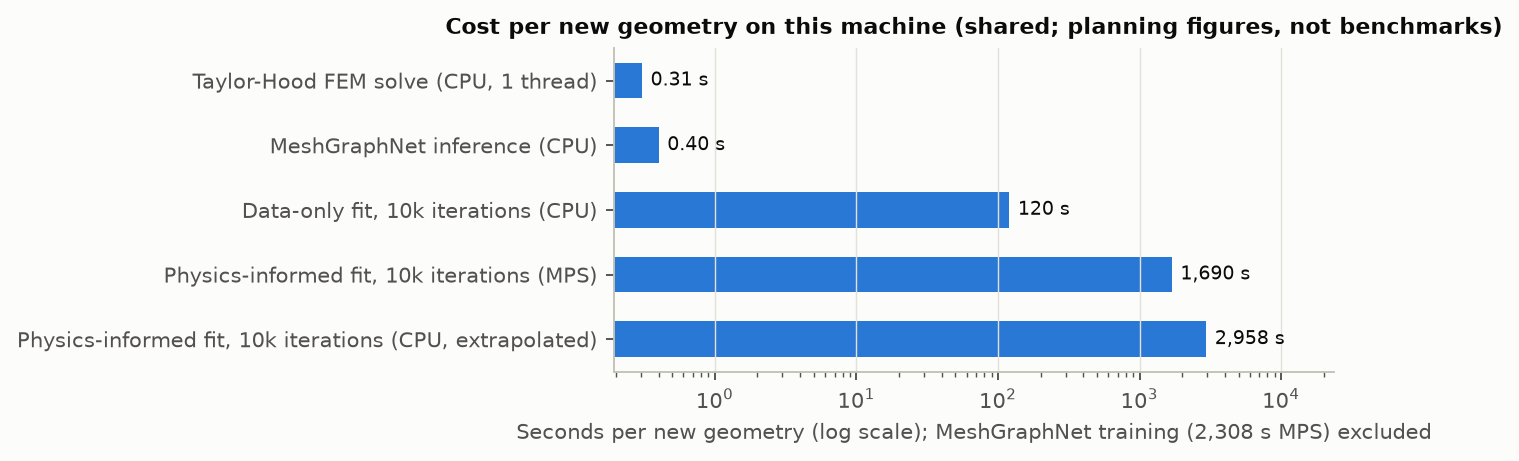
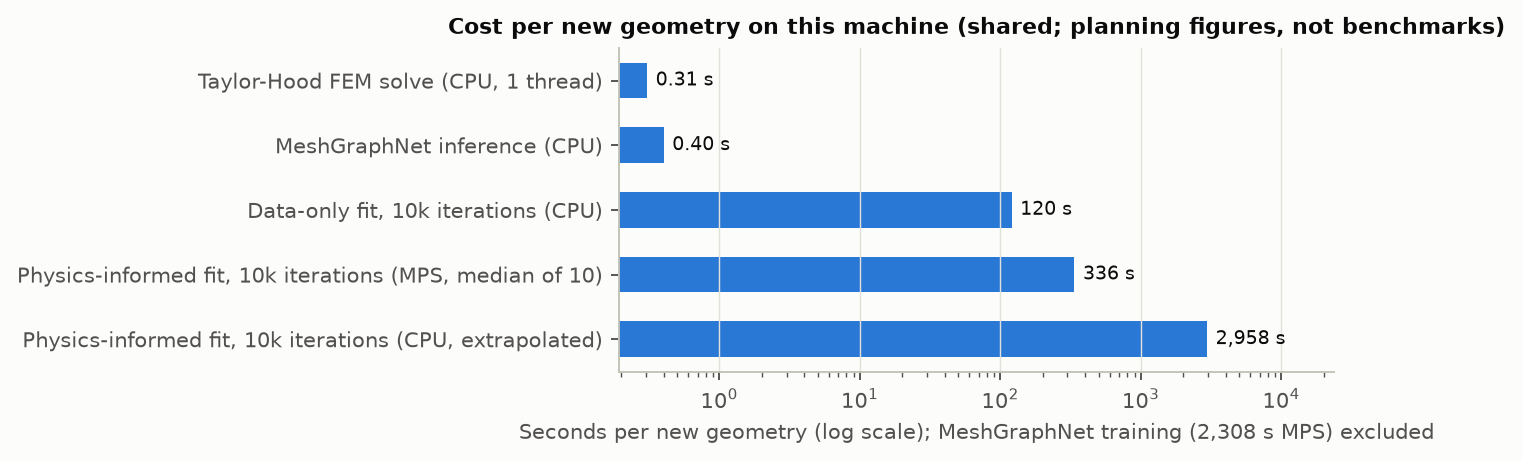
costs: physics-informed fit time as the median over ten meshes
benchmark_costs.py --stored-only refreshes the stored entries without
re-measuring the CPU tasks. The median (336 s on MPS) replaces the mean
of meshes 0 and 1 (1,690 s), which included accelerator contention.

diff --git a/scripts/benchmark_costs.py b/scripts/benchmark_costs.py
@@ -101,10 +101,25 @@ def child(task: str, threads: int) -> dict:
             "peak_minus_baseline_mb": rss_mb() - base} | per
 
 
+ACCURACY_NOTE = ("Taylor-Hood reproduces the reference to relative L2 below 1e-9 (audit_checks.json); the MeshGraphNet "
+                 "velocity error is 0.21 on 100 test meshes; the physics-informed fit 0.136 on 10 meshes (0.233 before).")
+
+
+def physics_fit_mps() -> dict:
+    """Median over the stored per-mesh fits; the median, not the mean, because some runs shared the accelerator."""
+    records = [json.loads(p.read_text()) for p in sorted((ROOT / "results" / "local" / "finetune").glob("finetune_*.json"))]
+    seconds = [r["seconds"] for r in records]
+    return {"value": float(np.median(seconds)), "per_mesh": seconds, "meshes": len(seconds),
+            "kind": "stored, 10,000 iterations, median over meshes; runs above the median overlapped other jobs "
+                    "on the shared accelerator or a system sleep"}
+
+
 def main() -> None:
     parser = argparse.ArgumentParser(description=__doc__, formatter_class=argparse.RawDescriptionHelpFormatter)
     parser.add_argument("--threads", type=int, default=3)
     parser.add_argument("--child", default=None)
+    parser.add_argument("--stored-only", action="store_true",
+                        help="keep the CPU measurements of the existing costs.json; refresh only the stored entries")
     args = parser.parse_args()
     if args.child:
         print("RESULT " + json.dumps(child(args.child, args.threads)))
@@ -114,6 +129,17 @@ def main() -> None:
     import torch
 
     from stokes_ft.provenance import collect_metadata, write_json
+
+    if args.stored_only:
+        out = json.loads((ROOT / "results" / "validation" / "costs.json").read_text())
+        out["per_new_geometry_seconds"]["physics_informed_fit_mps"] = physics_fit_mps()
+        out["accuracy_note"] = ACCURACY_NOTE
+        fem = out["per_new_geometry_seconds"]["taylor_hood_fem_cpu_1_thread"]["value"]
+        out["ratios"]["physics_fit_mps_over_fem"] = out["per_new_geometry_seconds"]["physics_informed_fit_mps"]["value"] / fem
+        out["stored_entries_refreshed"] = collect_metadata(torch.device("cpu"))
+        write_json(ROOT / "results" / "validation" / "costs.json", out)
+        print(json.dumps(out["per_new_geometry_seconds"]["physics_informed_fit_mps"], indent=1), out["ratios"])
+        return
 
     results = {}
     for task, threads in (("fem", 1), ("mgn_inference", args.threads), ("pinn_iteration", args.threads),
@@ -140,7 +166,7 @@ def main() -> None:
             "taylor_hood_fem_cpu_1_thread": {"value": fem, "kind": "measured, median of 10 meshes"},
             "meshgraphnet_inference_cpu": {"value": mgn, "kind": "measured, median of 10 meshes", "threads": args.threads},
             "meshgraphnet_inference_mps": {"value": stored["data_driven_inference_seconds_per_mesh"], "kind": "stored (results/local/summary.json)"},
-            "physics_informed_fit_mps": {"value": stored["finetune_seconds_per_mesh"], "kind": "stored, 10,000 iterations, meshes 0 and 1"},
+            "physics_informed_fit_mps": physics_fit_mps(),
             "physics_informed_fit_cpu": {"value": pinn_it * 10000, "kind": "EXTRAPOLATED from the per-iteration time x 10,000", "threads": args.threads},
             "data_only_fit_cpu": {"value": float(np.mean(data_only_measured)) if data_only_measured else data_it * 10000,
                                   "kind": "measured, complete 10,000-iteration runs" if data_only_measured else "EXTRAPOLATED",
@@ -150,8 +176,7 @@ def main() -> None:
             "meshgraphnet_training_mps": {"value": stored["data_driven_train_seconds"], "kind": "stored, 100 meshes x 40 epochs"},
             "training_data_fem_cpu": {"value": fem * 100, "kind": "derived: 100 Taylor-Hood solves at the measured median"},
         },
-        "accuracy_note": "Taylor-Hood reproduces the reference to relative L2 below 1e-9 (audit_checks.json); the MeshGraphNet "
-                         "velocity error is 0.21 on 100 test meshes; the physics-informed fit 0.11 on 2 meshes.",
+        "accuracy_note": ACCURACY_NOTE,
     }
     ratio = {"physics_fit_mps_over_fem": out["per_new_geometry_seconds"]["physics_informed_fit_mps"]["value"] / fem,
              "mgn_inference_cpu_over_fem": mgn / fem}

diff --git a/scripts/validation_figures.py b/scripts/validation_figures.py
@@ -127,7 +127,7 @@ def costs(out):
     items = [("Taylor-Hood FEM solve (CPU, 1 thread)", per["taylor_hood_fem_cpu_1_thread"]["value"]),
              ("MeshGraphNet inference (CPU)", per["meshgraphnet_inference_cpu"]["value"]),
              ("Data-only fit, 10k iterations (CPU)", per["data_only_fit_cpu"]["value"]),
-             ("Physics-informed fit, 10k iterations (MPS)", per["physics_informed_fit_mps"]["value"]),
+             ("Physics-informed fit, 10k iterations (MPS, median of 10)", per["physics_informed_fit_mps"]["value"]),
              ("Physics-informed fit, 10k iterations (CPU, extrapolated)", per["physics_informed_fit_cpu"]["value"])]
     fig, ax = plt.subplots(figsize=(8.2, 2.8))
     y = np.arange(len(items))[::-1]
